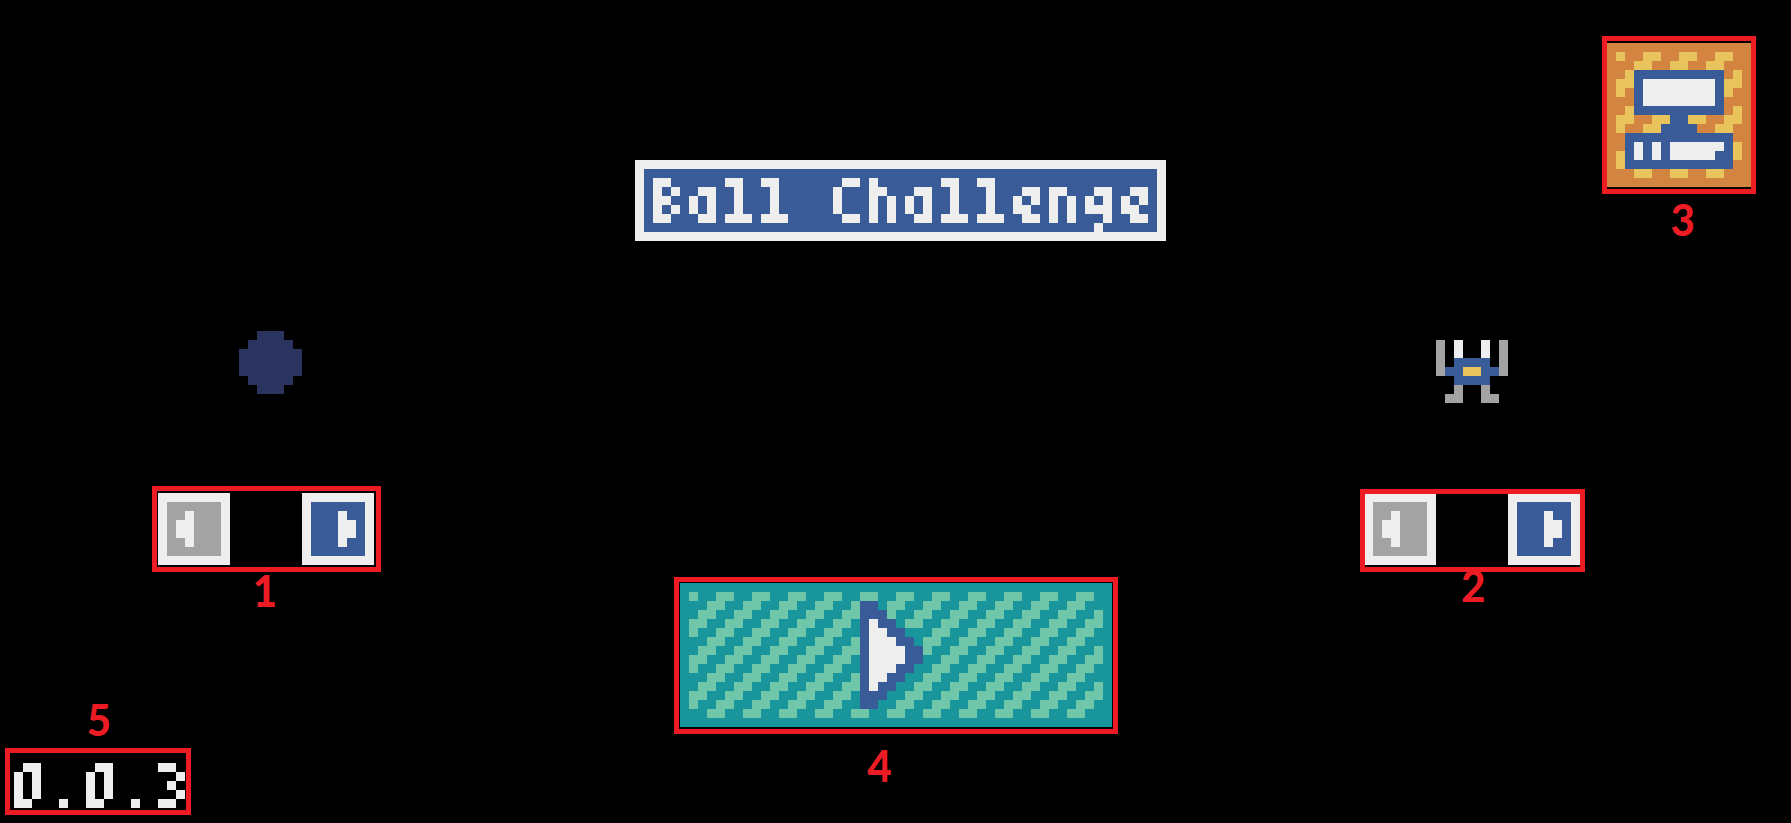
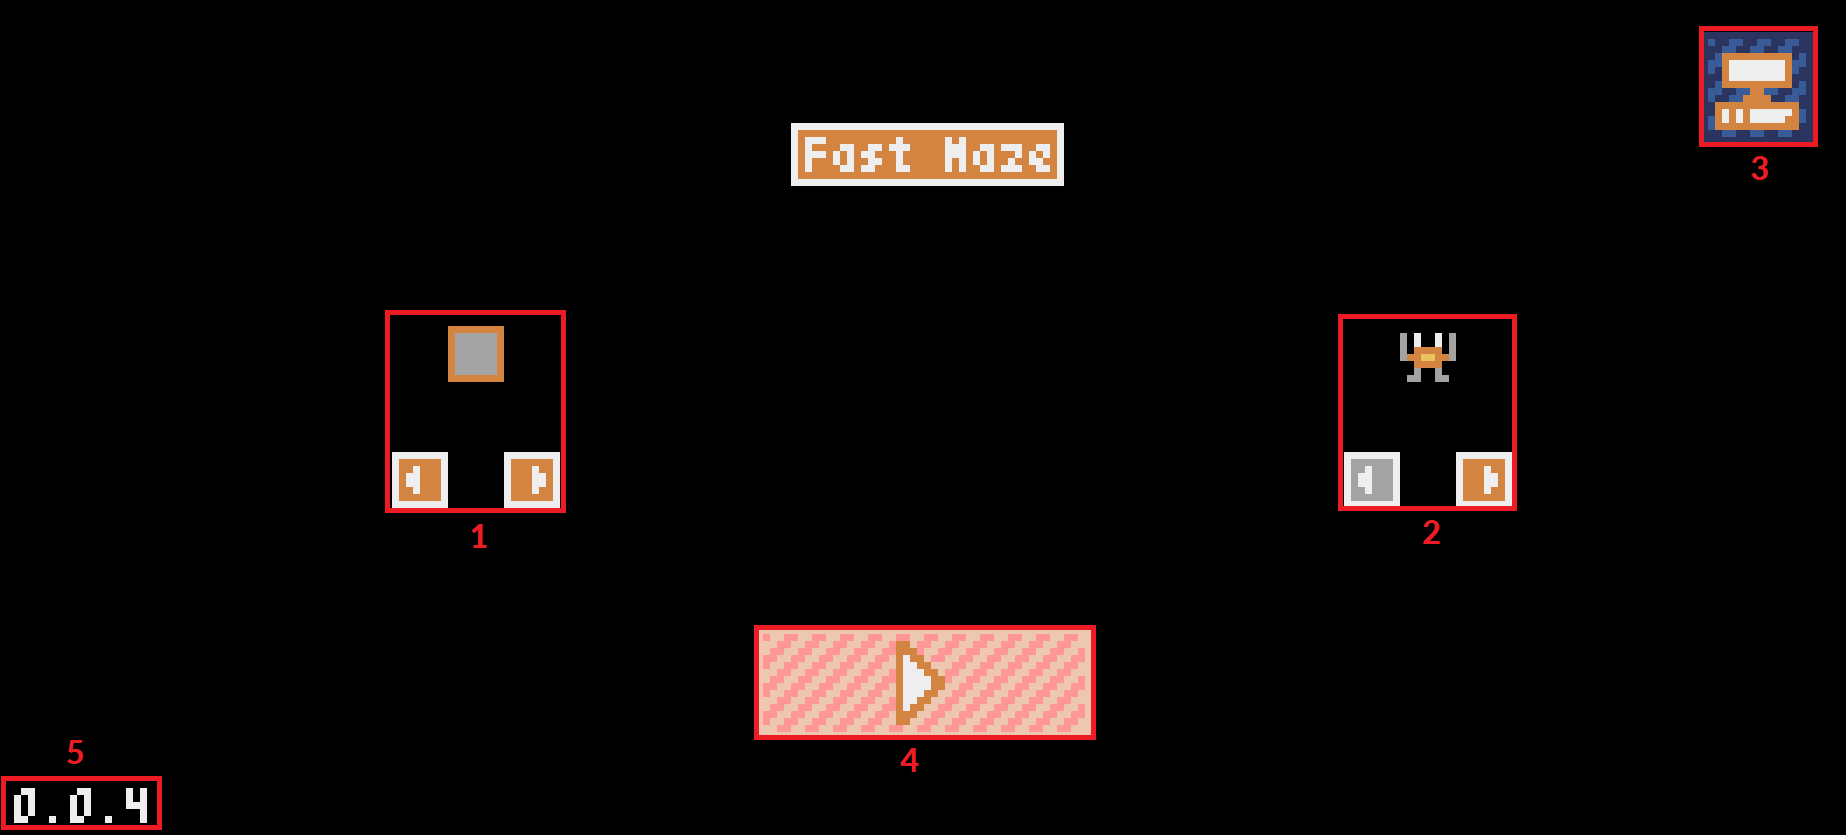
lancement public

diff --git a/game.html b/game.html
@@ -1,5 +1,5 @@
 <!DOCTYPE html>
 <script src="https://cdn.jsdelivr.net/gh/kitao/pyxel/wasm/pyxel.js"></script>
 <script>
[2 lines of base64/hex data omitted]
 </script>

diff --git a/README.md b/README.md
@@ -1,44 +1,40 @@
 # Jouer
 
-[Clique ici](https://osiris-sio.github.io/HTML_Ball-Challenge/) pour jouer sur le navigateur, que vous soyez sur PC ou Smartphone !
-Vous pouvez également jouer hors ligne en installant game.html sur PC et Smartphone ([ici](https://github.com/Osiris-Sio/Ball-Challenge/blob/main/game.html)).
+[Clique ici](https://osiris-sio.github.io/HTML_Fast-Maze/) pour jouer sur le navigateur, que vous soyez sur PC ou Smartphone !
+Vous pouvez également jouer hors ligne en installant game.html sur PC et Smartphone ([ici](https://github.com/Osiris-Sio/Fast-Maze/blob/main/game.html)).
 
-# Description 
+# Description et Caractéristiques
 
 <img src="res/titre.png" />
 
-Plongez dans l'action avec _Ball Challenge_, un jeu d'arcade addictif où votre agilité est mise à l'épreuve ! Évitez habilement les balles rebondissantes tout en collectant autant de pièces que possible. Affrontez vos propres records et défiez vos amis pour voir qui peut atteindre le plus haut score !
+<img src="res/crabe.png" /> <img src="res/cle.png" /> <img src="res/sortie.png" />
 
-# Caractéristiques
+Plongez dans l'excitation de l'aventure avec Fast Maze, un jeu captivant où votre reflection est honoré dans un petit labyrinthe ! Votre objectif est simple : récupérer la clé dans le labyrinthe et trouver le chemin vers la sortie.
 
-<img src="res/balle.png" /> <img src="res/crabe.png" />
+Chaque fois que vous lancez une nouvelle partie, le labyrinthe est généré de manière aléatoire, vous assurant une expérience unique à chaque fois.
 
-* Esquivez les balles : Utilisez votre réflexe et votre rapidité pour éviter les balles qui rebondissent sur les murs.
-* Collectez des pièces : Ramassez le plus de pièces pour accumuler des points.
-* Défiez-vous : Testez vos compétences en tentant d'obtenir le meilleur score possible dans ce jeu rapide et stimulant.
-* Graphismes rétro : Plongez dans une esthétique rétro avec des visuels charmants.
-* Facile à jouer, difficile à maîtriser : Accessible à tous, mais assez difficile pour défier même les joueurs les plus expérimentés.
+Avec des graphismes colorés et retro, Fast Maze est le jeu parfait pour les amateurs de défis rapides. Êtes-vous prêt à affronter le labyrinthe et à y échapper ?
 
 # Menu
 
 <img src="res/menu.png" style="zoom: 50%;"/>
 
-1. Changer la couleur de la balle (15 couleurs)
+1. Changer la couleur du contour des murs (15 couleurs)
 2. Changer le personnage (12 personnages)
 3. Changer la plateforme. Permet de désactiver l'affichage de la souris et de prendre en charge le tactile. 
 En mode PC, la croix directionnelle d'une manette est prise en compte.
 4. Bouton pour lancer une partie.
-5. La version du jeu. Les mises à jour ne seront que esthétiques (exemple : ajout de personnages)
+5. La version du jeu.
 
 # Partie
 
 <img src="res/partie.png" style="zoom: 50%;"/>
 
 1. Votre personnage (8x8 pixels).
-2. Une pièce qui doit être ramassée pour augmenter le score.
-3. La balle qu'il faut éviter. Attention, elles rebondissent aléatoirement sur les murs.
+2. La clé pour ouvrir la porte.
+3. La porte fermé. Ouverte après avoir récupéré la clé.
 4. Indication des touches à appuyer pour bouger votre personnage.
-5. Les informations de la partie. Cette zone indique le nombre de pièces ramassées et la durée (en secondes) de la partie.
+5. Les informations de la partie. Cette zone indique le nombre de déplacement que vous avez fait.
 6. Bouton pour retourner au menu.
 
 _Remarque :_
